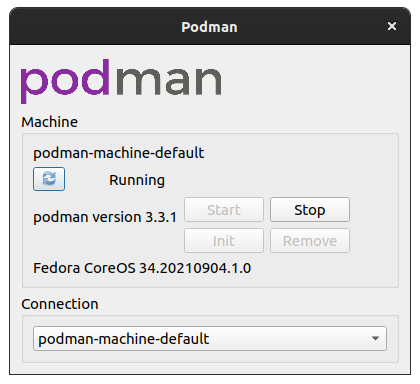
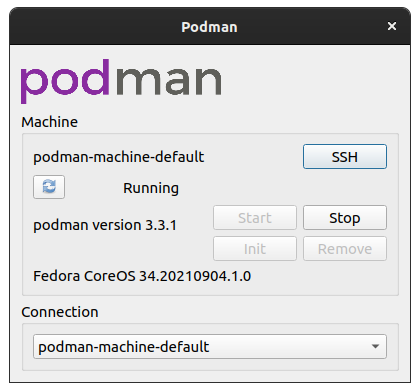
Update screenshots for new version

diff --git a/README.md b/README.md
@@ -31,6 +31,10 @@ $ ./systray
 
 ![podman-systray screenshot](screenshot3.png)
 
+### SSH console
+
+![podman-systray screenshot](screenshot4.png)
+
 ----
 
 Added the podman logo to the [systray](https://doc.qt.io/qt-5/qtwidgets-desktop-systray-example.html) example, as a proof-of-concept.
